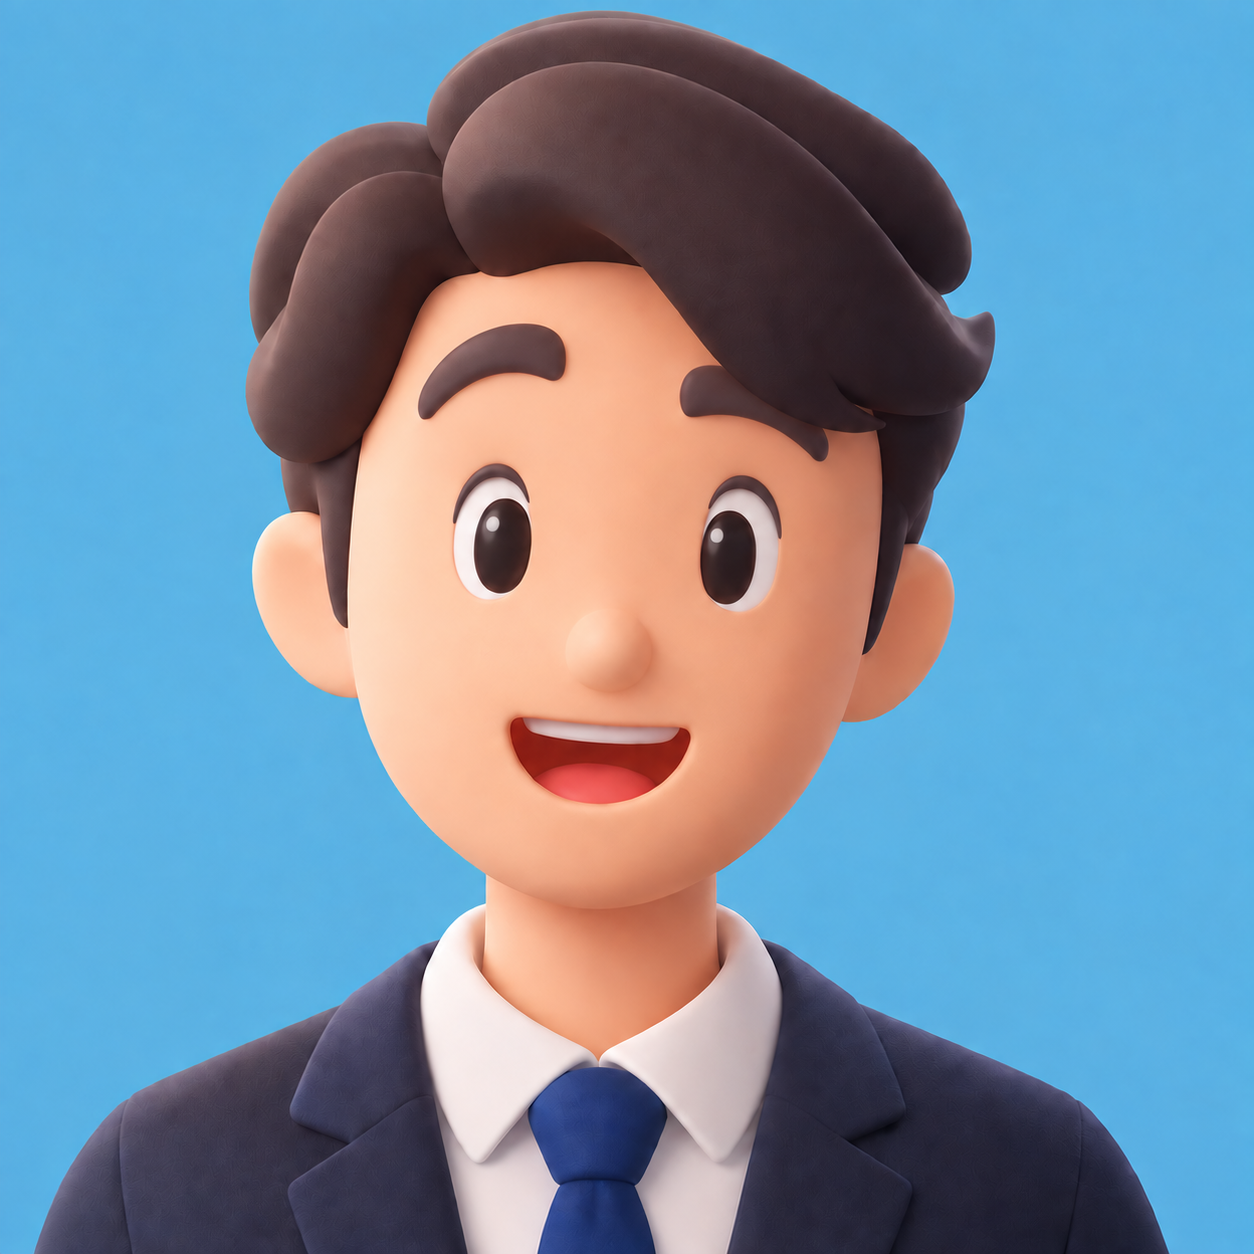
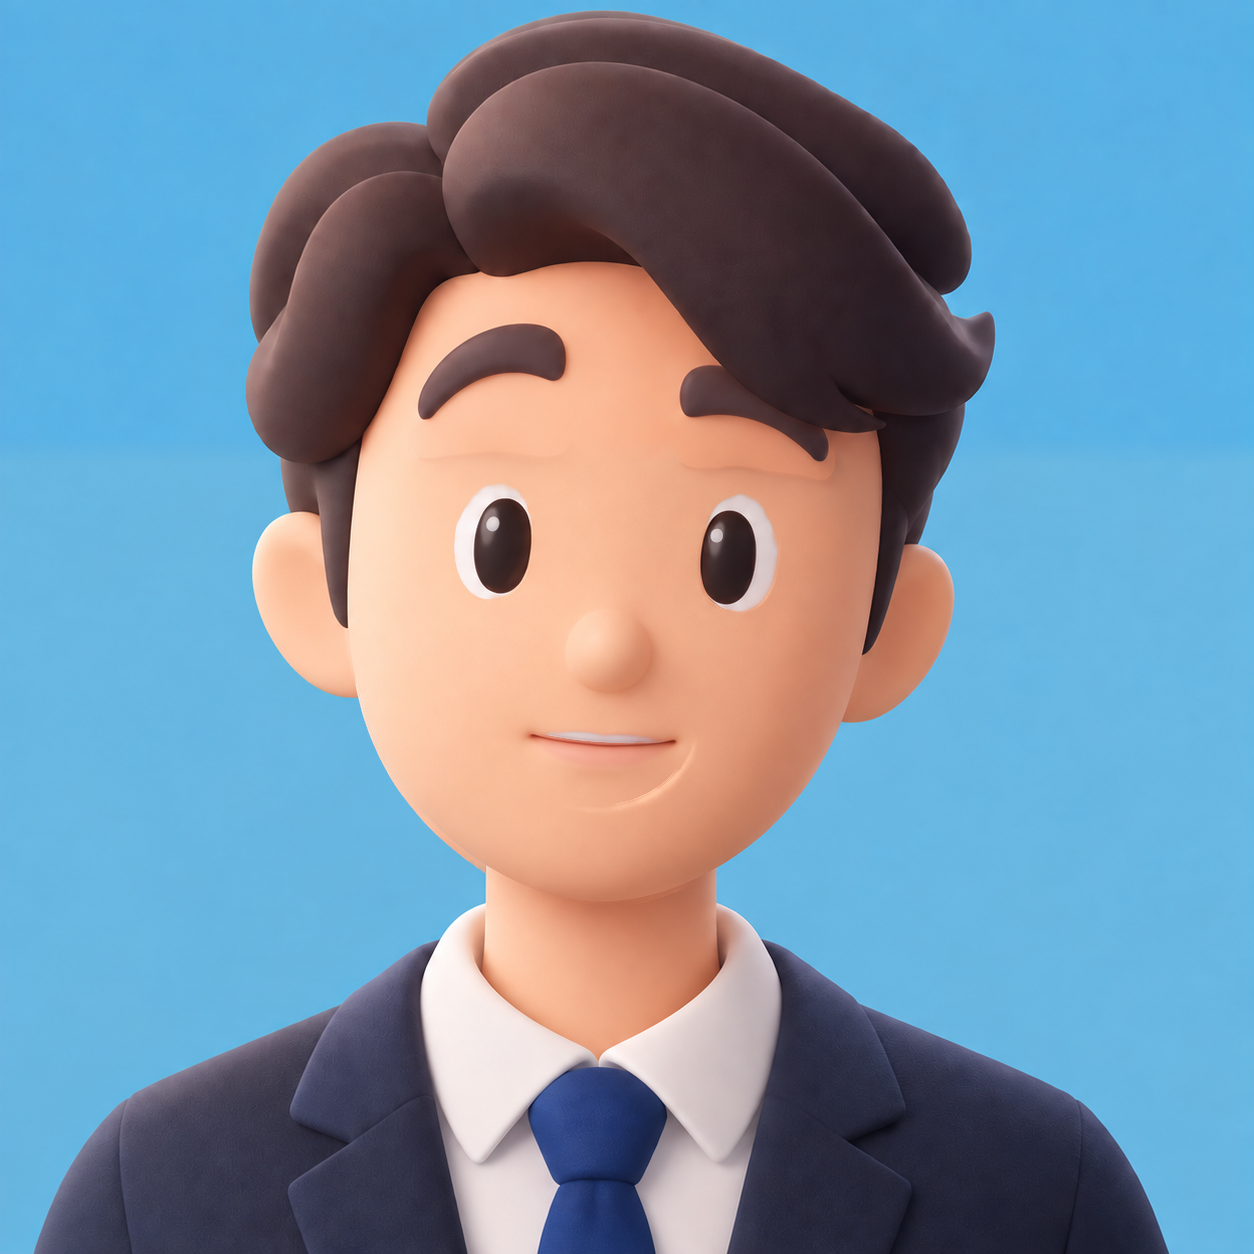
Marionnette : plus aucune superposition d'yeux ni de bouches
- bouches : bascule nette par défaut (mouthSharpness 4) : une seule image de
  bouche à la fois, jamais deux bouches fondues l'une dans l'autre
- sourcils sur accent uniquement sur le visage de base (une image d'émotion
  porte déjà ses sourcils) ; bande des sourcils élargie vers le haut ; ce
  qu'une image de sourcils change dans la zone des yeux est retiré de son
  masque
- images sourcils_leves / sourcils_fronces nettoyées : yeux de la base
  restaurés sous la ligne des sourcils, transition douce (les originaux
  avaient des yeux agrandis qui débordaient sur les sourcils)
- froncés quand un segment « sérieux » est actif sous le seuil d'affichage

Claude-Session: https://claude.ai/code/session_0142Mr13BCgQRDKKKVw1X1e6

diff --git a/packages/player/src/puppet.ts b/packages/player/src/puppet.ts
@@ -412,8 +412,11 @@ export class Puppet {
     if (eyesOnly) {
       for (const [k, d] of p.images) if (k.startsWith("brow:") || k.startsWith("emotion:")) browsRect = unionRect(browsRect, diffRect(bd, d.data, p.width, p.height, mouthRect));
       if (browsRect) {
-        const bottom = eyesOnly.y - 2; // strictement au-dessus des yeux : ces images changent parfois aussi les yeux
-        browsRect = { x: browsRect.x, y: browsRect.y, w: browsRect.w, h: Math.max(0, bottom - browsRect.y) };
+        // nettement au-dessus des yeux : ces images changent parfois aussi les yeux (plus grands ouverts) ;
+        // et large vers le haut : des sourcils levés dépassent la détection par blocs
+        const bottom = eyesOnly.y - 2;
+        const top = Math.max(0, browsRect.y - eyesOnly.h);
+        browsRect = { x: browsRect.x, y: top, w: browsRect.w, h: Math.max(0, bottom - top) };
         if (browsRect.h < 8) browsRect = null;
       }
     }
@@ -507,6 +510,18 @@ export class Puppet {
     // sourcils seuls : bande au-dessus des yeux
     const browsRect = this.regions.brows ? padRect(this.regions.brows, Math.round(feather), this.width, this.height) : undefined;
     const browsMask = browsRect && gate > 0 ? groupMask([...pick("brow:"), ...pick("emotion:")], baseData.data, this.width, browsRect, gate) : undefined;
+    // une image de sourcils change parfois aussi les yeux (plus grands ouverts) : ce qu'elle
+    // modifie dans la zone des yeux est retiré de son masque, la base reste visible là
+    const browMaskFor = (img: Uint8ClampedArray): Float32Array | undefined => {
+      if (!browsMask || !browsRect || !this.regions.eyesOnly) return browsMask;
+      const eyeTop = this.regions.eyesOnly.y - Math.round(this.regions.eyesOnly.h * 0.2);
+      const core = changeCore(img, baseData.data, this.width, browsRect, Math.max(12, gate));
+      for (let y = 0; y < browsRect.h; y++) if (browsRect.y + y < eyeTop) core.fill(0, y * browsRect.w, (y + 1) * browsRect.w);
+      const eyeZone = boxBlur(dilate(core, browsRect.w, browsRect.h, 2), browsRect.w, browsRect.h, 3);
+      const out = new Float32Array(browsMask);
+      for (let i = 0; i < out.length; i++) out[i] *= 1 - Math.min(1, eyeZone[i]);
+      return out;
+    };
     // mains : tout le cadre, sauf le visage (yeux, sourcils, bouche) que ces images modifient parfois aussi
     const full: Rect = { x: 0, y: 0, w: this.width, h: this.height };
     const faceExclusion = [mouthRect, eyesRect, browsRect].filter((r): r is Rect => Boolean(r)).map((r) => padRect(r, 40, this.width, this.height));
@@ -517,7 +532,7 @@ export class Puppet {
       else if (k === "eyes:closed") this.eyes.closed = makeLayer(d, eyesRect, feather, eyesMask, smoothing);
       else if (k.startsWith("emotion:")) this.emotions.set(k.slice(8), makeLayer(d, eyesRect, feather, eyesMask, smoothing));
       else if (k.startsWith("gaze:") && eyesOnly) this.gaze.set(k.slice(5), makeLayer(d, eyesOnly, feather, gazeMask, smoothing));
-      else if (k.startsWith("brow:") && browsRect) this.brows.set(k.slice(5), makeLayer(d, browsRect, feather, browsMask, smoothing));
+      else if (k.startsWith("brow:") && browsRect) this.brows.set(k.slice(5), makeLayer(d, browsRect, feather, browMaskFor(d.data), smoothing));
       else if (k.startsWith("hand:")) {
         let mask = changeMask(d.data, baseData.data, this.width, full, Math.max(12, gate));
         mask = excludeRects(mask, full, faceExclusion);
@@ -620,7 +635,8 @@ export class Puppet {
       // bouche : transition courte entre formes, rendue plus franche par une courbe de contraste
       const e = energyAt(frame.t, energy);
       const stretch = 1 + cfg.mouthEnergy * (e - 0.5) * 2 * frame.speaking;
-      const sharp = Math.max(1, cfg.mouthSharpness ?? 2);
+      const sharp = Math.max(1, cfg.mouthSharpness ?? 4);
+      const hardSwitch = sharp >= 3.5; // une seule bouche à la fois : jamais deux images superposées
       const smiling = frame.emotionDisplayed !== undefined && this.smileEmotions.has(frame.emotionDisplayed) && this.mouthsSmile.size > 0;
       const mouthLayer = (shape: string): Layer | undefined => (smiling ? this.mouthsSmile.get(shape) : undefined) ?? this.mouths.get(shape) ?? this.mouths.get(FALLBACK[shape] ?? "");
       const active = Object.entries(frame.shapes).filter(([shape, w]) => shape !== "X" && w > 0.002);
@@ -633,15 +649,27 @@ export class Puppet {
       const rest = Math.max(0, 1 - active.reduce((acc, [, w]) => acc + w, 0));
       const restSharp = Math.pow(rest, sharp);
       const norm = total + restSharp > 0 ? 1 / (total + restSharp) : 1;
-      // composition « over » en ordre croissant : chaque forme finit avec la couverture voulue
-      let covered = restSharp * norm;
       // bouche au repos souriante pendant une émotion souriante
       const restLayer = smiling ? this.mouthsSmile.get("X") : undefined;
-      if (restLayer && restSharp * norm > 0.01) {
+      if (hardSwitch) {
+        // bascule nette : la forme dominante seule (ou le repos), opaque
+        const top = weights.reduce<readonly [string, number] | undefined>((best, cur) => (!best || cur[1] > best[1] ? cur : best), undefined);
+        ctx.globalAlpha = 1;
+        if (top && top[1] >= restSharp) {
+          const layer = mouthLayer(top[0]);
+          if (layer) {
+            const r = layer.rect;
+            const my = r.y + r.h / 2;
+            ctx.drawImage(layer.canvas, r.x, my - (r.h / 2) * stretch, r.w, r.h * stretch);
+          }
+        } else if (restLayer) ctx.drawImage(restLayer.canvas, restLayer.rect.x, restLayer.rect.y);
+      } else if (restLayer && restSharp * norm > 0.01) {
         ctx.globalAlpha = 1;
         ctx.drawImage(restLayer.canvas, restLayer.rect.x, restLayer.rect.y);
       }
-      for (const [shape, ws] of [...weights].sort((a, b) => a[1] - b[1])) {
+      // composition « over » en ordre croissant : chaque forme finit avec la couverture voulue
+      let covered = restSharp * norm;
+      for (const [shape, ws] of hardSwitch ? [] : [...weights].sort((a, b) => a[1] - b[1])) {
         const layer = mouthLayer(shape);
         const target = ws * norm;
         covered += target;
@@ -667,10 +695,12 @@ export class Puppet {
         const layer = key ? this.gaze.get(key) : undefined;
         if (layer) ctx.drawImage(layer.canvas, layer.rect.x, layer.rect.y);
       }
-      // sourcils sur les accents : levés (ou froncés pendant une émotion sérieuse)
+      // sourcils sur les accents, seulement sur le visage de base : une image d'émotion porte
+      // déjà ses sourcils, on ne superpose jamais deux paires. Froncés si un segment « sérieux »
+      // est actif sous le seuil d'affichage, levés sinon.
       const browThreshold = cfg.sourcilsAccent ?? 0.55;
-      if ((frame.brow ?? 0) >= browThreshold && browThreshold < 1) {
-        const key = frame.emotionDisplayed === "sérieux" && this.brows.has("down") ? "down" : "up";
+      if (!emotionLayer && (frame.brow ?? 0) >= browThreshold && browThreshold < 1) {
+        const key = (frame.emotions["sérieux"] ?? 0) > 0.1 && this.brows.has("down") ? "down" : "up";
         const layer = this.brows.get(key);
         if (layer) ctx.drawImage(layer.canvas, layer.rect.x, layer.rect.y);
       }

diff --git a/packages/player/src/ui/controls.ts b/packages/player/src/ui/controls.ts
@@ -67,7 +67,7 @@ export const SECTIONS: SectionSpec[] = [
       { path: "scene.marionnette.regard", label: "Images de regard (saccades)", type: "checkbox" },
       { path: "scene.marionnette.sourcilsAccent", label: "Sourcils sur accents (seuil, 1 = jamais)", type: "range", min: 0.2, max: 1, step: 0.05 },
       { path: "scene.marionnette.mains", label: "Images de mains (piste gestes)", type: "checkbox" },
-      { path: "scene.marionnette.mouthSharpness", label: "Netteté des transitions de bouche", type: "range", min: 1, max: 4, step: 0.1 },
+      { path: "scene.marionnette.mouthSharpness", label: "Transitions de bouche (4 = bascule nette, jamais deux bouches)", type: "range", min: 1, max: 4, step: 0.1 },
       { path: "scene.marionnette.emotionThreshold", label: "Intensité minimale pour afficher une émotion", type: "range", min: 0, max: 1, step: 0.05 },
     ],
   },

diff --git a/packages/shared/src/defaults.ts b/packages/shared/src/defaults.ts
@@ -206,7 +206,7 @@ export const DEFAULT_SCENE: SceneConfig = {
     eyeCatch: { color: "#ffffff", intensity: 0.6, position: [0.3, 0.3, 1.4] },
     environment: { enabled: true, intensity: 0.5 },
   },
-  marionnette: { zoom: 1.0, offsetX: 0, offsetY: 0, motion: 1.6, breathing: 0.006, feather: 18, mouthEnergy: 0.08, emotionThreshold: 0.3, mouthSharpness: 2, seuilBruit: 20, lissage: 0.6, suivi: 0.6, ombre: 0.22, regard: true, sourcilsAccent: 0.55, mains: true },
+  marionnette: { zoom: 1.0, offsetX: 0, offsetY: 0, motion: 1.6, breathing: 0.006, feather: 18, mouthEnergy: 0.08, emotionThreshold: 0.3, mouthSharpness: 4, seuilBruit: 20, lissage: 0.6, suivi: 0.6, ombre: 0.22, regard: true, sourcilsAccent: 0.55, mains: true },
   life: {
     enabled: true,
     blink: { minInterval: 2, maxInterval: 6, duration: 0.16, doubleProbability: 0.15 },
